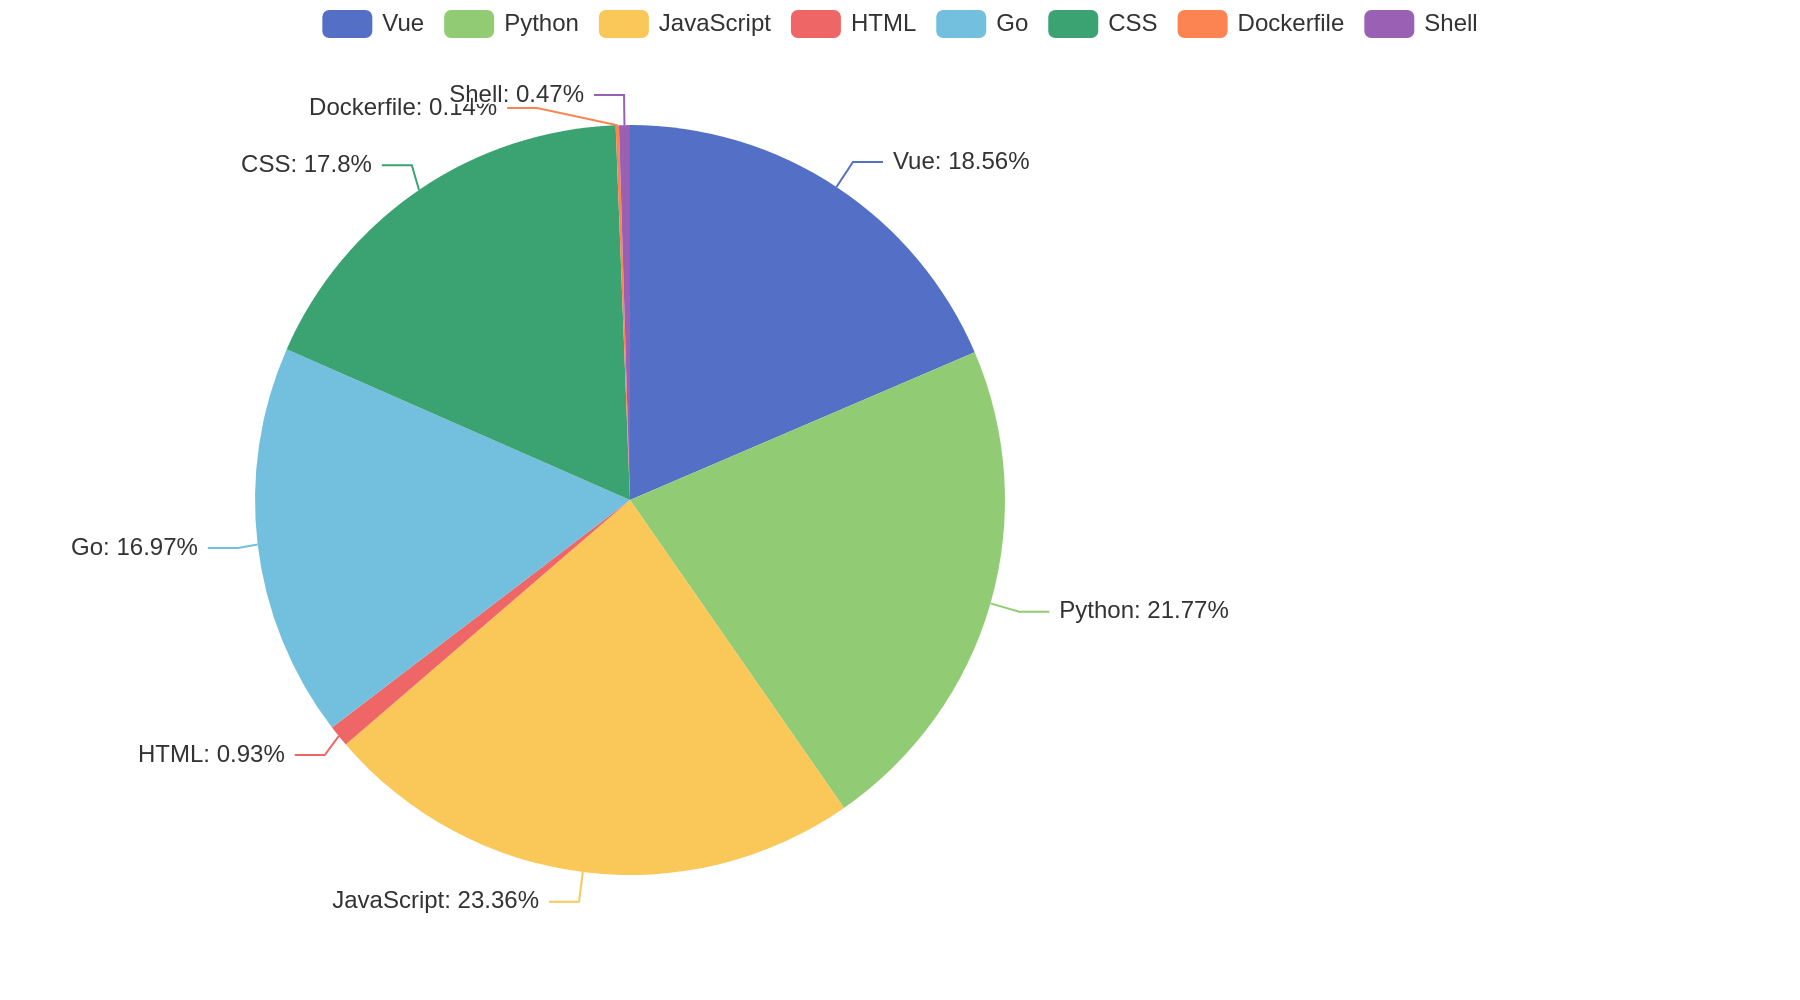
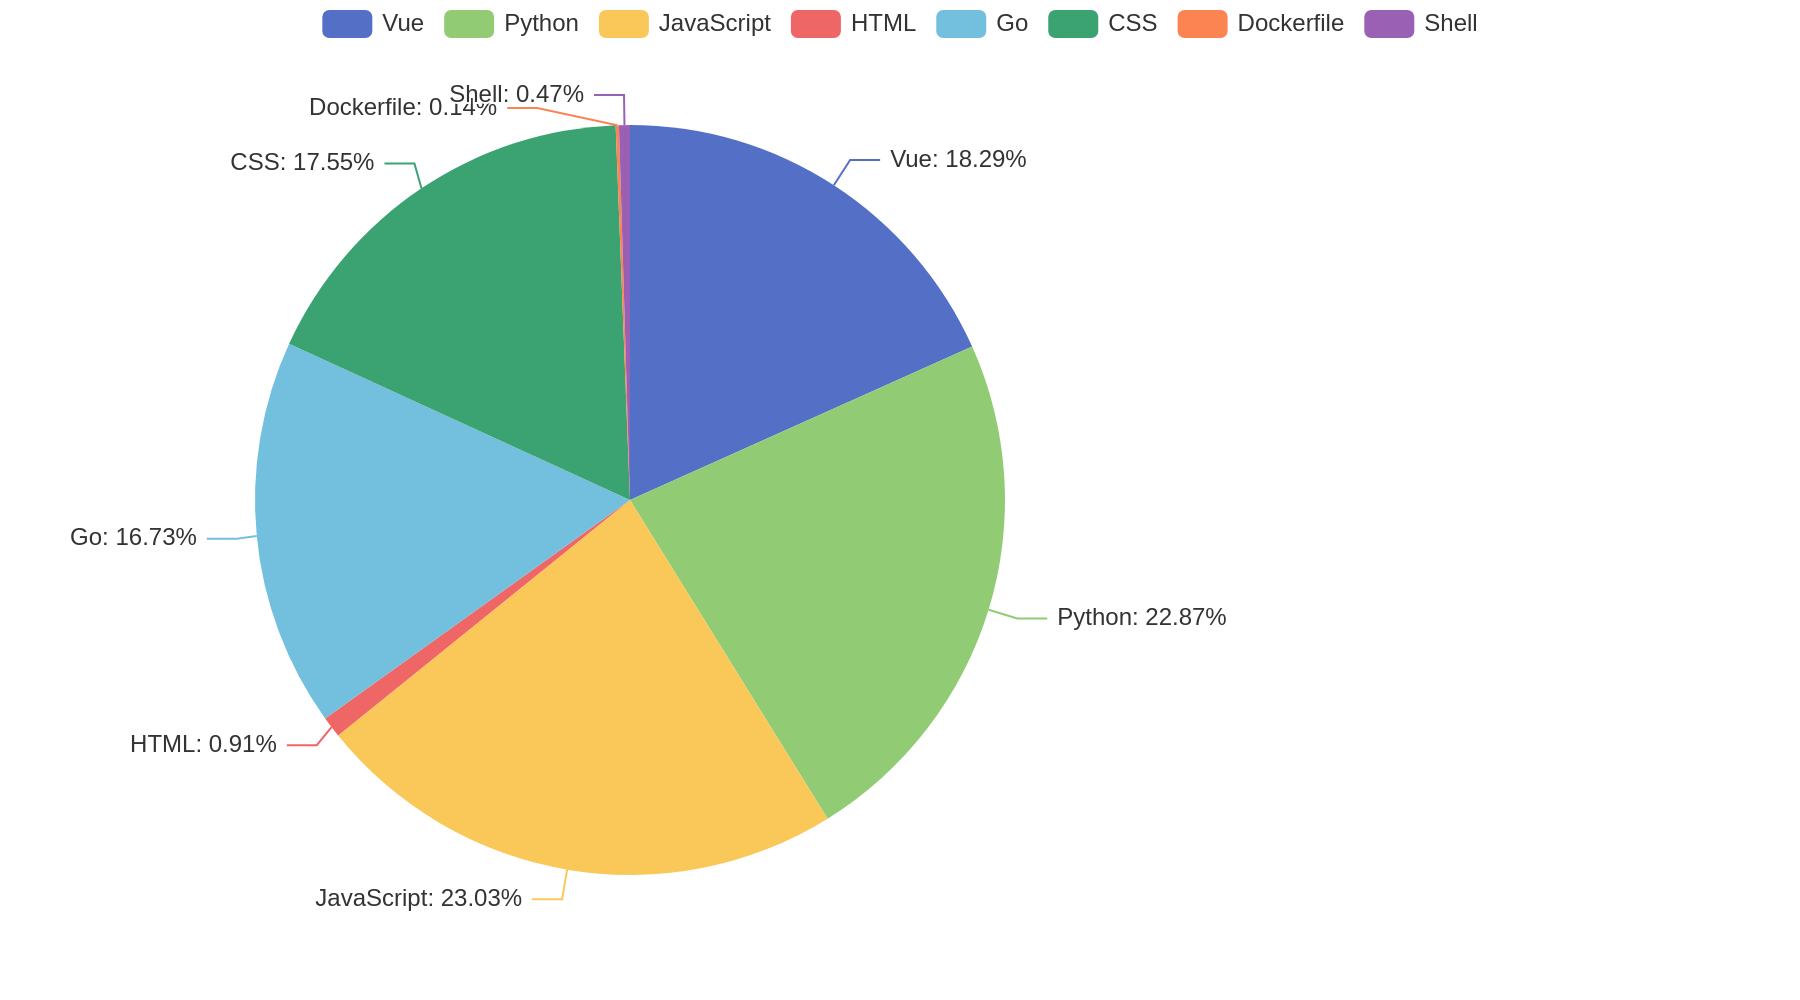
update

diff --git a/utils/markdown.py b/utils/markdown.py
@@ -5,9 +5,9 @@ def modify_by_mark(mark_name, insert_path, insert_height=0, insert_width=0, mark
     mark_end = "<!-- END:{} -->".format(mark_name)
     size = ""
     if insert_height:
-        size += "height: {}px; "
+        size += "height: {}px; ".format(insert_height)
     if insert_width:
-        size += "width: {}px; "
+        size += "width: {}px; ".format(insert_width)
 
     # split readme into lines
     with open(markdown_file, "r") as f:
@@ -25,8 +25,8 @@ def modify_by_mark(mark_name, insert_path, insert_height=0, insert_width=0, mark
     
     # add image tag to markdown file
     del lines[mark_idx_start + 1: mark_idx_end]
-    img_html = "<img src=\"{}\" alt=img stype=\"{}\" /".format(insert_path, size)
-    lines.insert(mark_idx_end, img_html)
+    img_html = "<img src=\"{}\" alt=img stype=\"{}\" />\n".format(insert_path, size)
+    lines.insert(mark_idx_end - 1, img_html)
     with open(markdown_file, "w+") as f:
         f.write("".join(lines))
 

diff --git a/main.py b/main.py
@@ -3,10 +3,10 @@ from utils.charts import pie_chart
 from utils.markdown import modify_by_mark
 
 
-# gc = Github_Controller()
+gc = Github_Controller()
 
-# gc.init()
+gc.init()
 
-# pie_chart(gc.language_percentage, "languague-percentage")
+pie_chart(gc.language_percentage, "languague-percentage")
 
-modify_by_mark("updatetime", "a")
+modify_by_mark("updatetime", "https://github.com/Yin-FR/Yin-FR/blob/main/assets/charts/languague-percentage.png?raw=true", insert_height=100)
